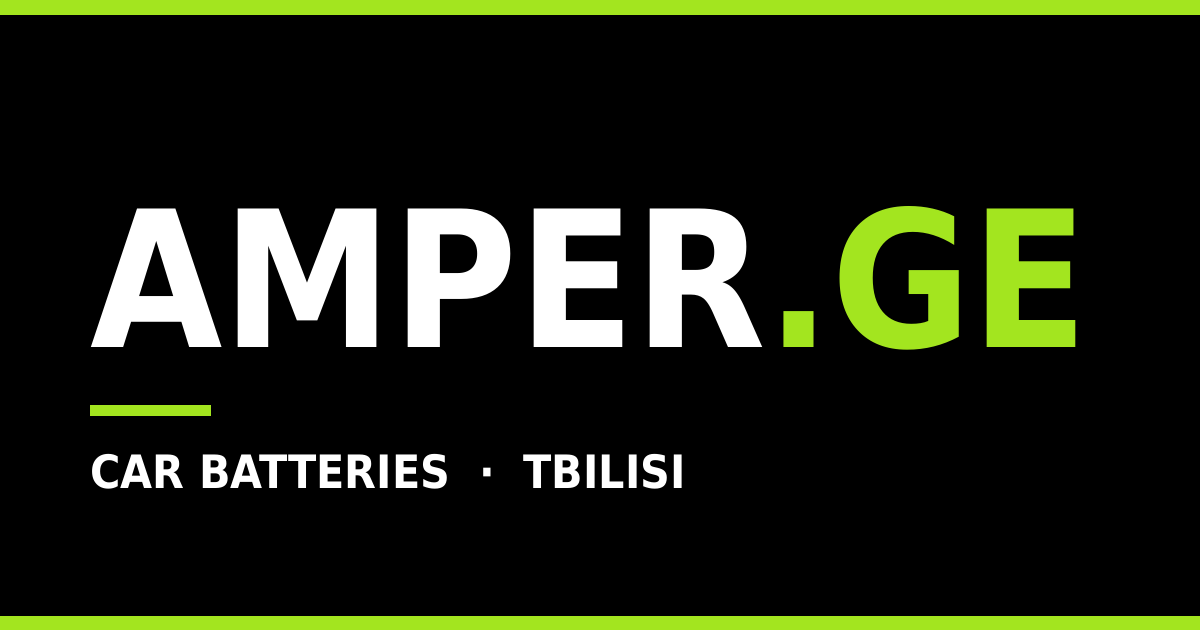
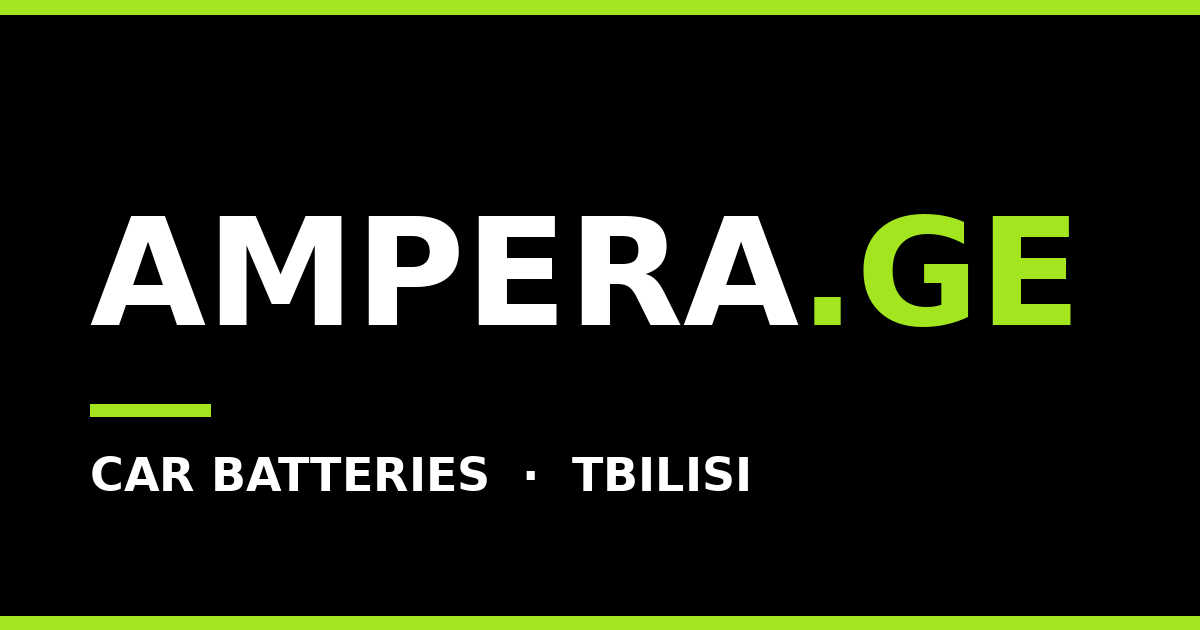
Update the site: AMPERA.GE brand everywhere (#15)

Changed region(s): [[0.0617, 0.3016, 0.8942, 0.573], [0.0617, 0.6937, 0.6475, 0.7841], [0.0925, 0.6333, 0.1542, 0.6635]]

diff --git a/src/components/site/content.ts b/src/components/site/content.ts
@@ -211,11 +211,11 @@ export interface SiteContent {
 }
 
 export const en: SiteContent = {
-  brand: { name: 'AMPER', tld: '.GE' },
+  brand: { name: 'AMPERA', tld: '.GE' },
   skip: 'Skip to battery finder',
   menu: 'Menu',
   meta: {
-    title: 'AMPER.GE — Car batteries in Tbilisi',
+    title: 'AMPERA.GE — Car batteries in Tbilisi',
     description: 'Find the right car battery by vehicle or old-battery code. Fitment confirmed, same-day delivery and installation in Tbilisi.',
     ogDescription: 'Find the right car battery by vehicle or old-battery code. Same-day delivery and installation.',
   },
@@ -403,7 +403,7 @@ export const en: SiteContent = {
     },
   },
   why: {
-    eyebrow: 'Why AMPER',
+    eyebrow: 'Why AMPERA',
     heading: 'A counter you can actually reach',
     items: [
       { title: 'Real stock, real numbers', text: 'The catalog mirrors the shelf. If WhatsApp says 6 units, there are 6 units.' },
@@ -502,18 +502,18 @@ export const en: SiteContent = {
   },
   mbar: { navLabel: 'Quick contact', whatsapp: 'WhatsApp', call: 'Call' },
   consent: { text: 'We use cookies for anonymous visit statistics (Google Analytics) to improve the site. You can decline.', accept: 'Accept', decline: 'Decline' },
-  demoNotice: '© AMPER.GE · Fitment is always confirmed by our team before installation.',
+  demoNotice: '© AMPERA.GE · Fitment is always confirmed by our team before installation.',
 };
 
 export const ka: SiteContent = {
   "brand": {
-    "name": "AMPER",
+    "name": "AMPERA",
     "tld": ".GE"
   },
   "skip": "გადასვლა აკუმულატორის ძიებაზე",
   "menu": "მენიუ",
   "meta": {
-    "title": "AMPER.GE — ავტო აკუმულატორები თბილისში",
+    "title": "AMPERA.GE — ავტო აკუმულატორები თბილისში",
     "description": "შეარჩიეთ შესაფერისი ავტო აკუმულატორი ავტომობილის მოდელით ან ძველი აკუმულატორის კოდით. თავსებადობის გადამოწმება, მიტანა და მონტაჟი იმავე დღეს თბილისში.",
     "ogDescription": "შეარჩიეთ შესაფერისი ავტო აკუმულატორი ავტომობილის მოდელით ან ძველი აკუმულატორის კოდით. მიტანა და მონტაჟი იმავე დღეს."
   },
@@ -769,7 +769,7 @@ export const ka: SiteContent = {
     }
   },
   "why": {
-    "eyebrow": "რატომ AMPER",
+    "eyebrow": "რატომ AMPERA",
     "heading": "გუნდი, რომელსაც ნამდვილად დაუკავშირდებით",
     "items": [
       {
@@ -920,7 +920,7 @@ export const ka: SiteContent = {
     "accept": "თანხმობა",
     "decline": "უარი"
   },
-  "demoNotice": "© AMPER.GE · შესაბამისობას ყოველთვის ჩვენი გუნდი ადასტურებს მონტაჟამდე."
+  "demoNotice": "© AMPERA.GE · შესაბამისობას ყოველთვის ჩვენი გუნდი ადასტურებს მონტაჟამდე."
 };
 
 export const content = { en, ka };

diff --git a/src/lib/site/site.test.ts b/src/lib/site/site.test.ts
@@ -19,7 +19,7 @@ describe('contact', () => {
     const m = await import('./contact');
     expect(m.contact.phone).toBe('+995322550011');
     expect(m.contact.whatsapp).toBe('995555123456');
-    expect(m.contact.email).toBe('hello@amper.ge');
+    expect(m.contact.email).toBe('hello@ampera.ge');
     expect(m.contact.address).toBe('12 Kakheti Highway, Tbilisi');
     expect(m.contact.hours).toBe('Mo-Sa 09:00-19:00');
   });
@@ -41,11 +41,11 @@ describe('contact', () => {
 });
 
 describe('json-ld', () => {
-  const contactInfo = { phoneDisplay: '+995 32 255 00 11', address: '12 Kakheti Highway, Tbilisi', hours: 'Mo-Sa 09:00-19:00', email: 'hello@amper.ge' };
+  const contactInfo = { phoneDisplay: '+995 32 255 00 11', address: '12 Kakheti Highway, Tbilisi', hours: 'Mo-Sa 09:00-19:00', email: 'hello@ampera.ge' };
   it('emits LocalBusiness plus one Product per battery', () => {
-    const doc = buildJsonLd('https://amper.ge', contactInfo, [{ id: 's60', name: 'AMPER S60', price: 215, stock: 'in' }]);
+    const doc = buildJsonLd('https://ampera.ge', contactInfo, [{ id: 's60', name: 'AMPER S60', price: 215, stock: 'in' }]);
     const graph = doc['@graph'] as Record<string, unknown>[];
-    expect(graph[0]).toMatchObject({ '@type': 'LocalBusiness', name: 'AMPER.GE' });
+    expect(graph[0]).toMatchObject({ '@type': 'LocalBusiness', name: 'AMPERA.GE' });
     expect(graph[1]).toMatchObject({
       '@type': 'Product',
       name: 'AMPER S60',
@@ -53,7 +53,7 @@ describe('json-ld', () => {
     });
   });
   it('omits offers when price is null', () => {
-    const doc = buildJsonLd('https://amper.ge', contactInfo, [{ id: 's60', name: 'AMPER S60', price: null, stock: 'in' }]);
+    const doc = buildJsonLd('https://ampera.ge', contactInfo, [{ id: 's60', name: 'AMPER S60', price: null, stock: 'in' }]);
     expect((doc['@graph'] as Record<string, unknown>[])[1]).not.toHaveProperty('offers');
   });
   it('maps availability from stock', () => {

diff --git a/src/app/globals.css b/src/app/globals.css
@@ -1,4 +1,4 @@
-/* AMPER.GE — LIGHT theme with the brand palette: green #A3E51F, black #000, white #FFF.
+/* AMPERA.GE — LIGHT theme with the brand palette: green #A3E51F, black #000, white #FFF.
    Green is a FILL colour (buttons, bars, marks) — on white it has only 1.5:1 contrast, so accent TEXT on light
    uses the dark green --amber-ink (#3F6B00, 6.3:1). Header and footer are black, where the brand green is text-safe. */
 
@@ -612,7 +612,7 @@ input[type=file]{ width:100%; min-height:44px; background:var(--bg-2); color:var
 @media (max-width:760px){ .consent{ bottom:calc(76px + env(safe-area-inset-bottom,0px)) } }
 
 /* =====================================================================================================
-   REDESIGN LAYER — AMPER.GE public site.
+   REDESIGN LAYER — AMPERA.GE public site.
    override: sandro/checklist.md §1 (pure #000 / #FFF surfaces, black+green) — client brand mandate:
    green #A3E51F / black #000 / white #FFF. Green is a FILL on light surfaces, text only on black.
    Georgian rules: no letter-spacing, no all-caps, no mono face for Georgian words; headlines never break

diff --git a/src/lib/site/contact.ts b/src/lib/site/contact.ts
@@ -2,7 +2,7 @@ const DEFAULT_PHONE = '+995322550011';
 const DEFAULT_PHONE_DISPLAY = '+995 32 255 00 11';
 const DEFAULT_WHATSAPP = '995555123456';
 const DEFAULT_WHATSAPP_DISPLAY = '+995 555 12 34 56';
-const DEFAULT_EMAIL = 'hello@amper.ge';
+const DEFAULT_EMAIL = 'hello@ampera.ge';
 
 export const contact = {
   phone: process.env.NEXT_PUBLIC_SHOP_PHONE || DEFAULT_PHONE,
@@ -12,10 +12,10 @@ export const contact = {
   email: process.env.NEXT_PUBLIC_SHOP_EMAIL || DEFAULT_EMAIL,
   address: '12 Kakheti Highway, Tbilisi',
   hours: 'Mo-Sa 09:00-19:00',
-  telegram: 'https://t.me/amperge',
-  telegramHandle: '@amperge',
-  facebook: 'https://fb.com/amperge',
-  instagram: 'https://instagram.com/amper.ge',
+  telegram: 'https://t.me/ampera_ge',
+  telegramHandle: '@ampera_ge',
+  facebook: 'https://fb.com/ampera.ge',
+  instagram: 'https://instagram.com/ampera.ge',
 };
 
 export function waLink(text: string): string {

diff --git a/src/lib/analytics.test.ts b/src/lib/analytics.test.ts
@@ -12,11 +12,11 @@ describe('parseGaId', () => {
 describe('eventForHref', () => {
   it('maps the shop contact channels to events', () => {
     expect(eventForHref('tel:+995322550011')).toBe('click_phone');
-    expect(eventForHref('mailto:hello@amper.ge')).toBe('click_email');
+    expect(eventForHref('mailto:hello@ampera.ge')).toBe('click_email');
     expect(eventForHref('https://wa.me/995555123456?text=Hi')).toBe('click_whatsapp');
     expect(eventForHref('https://t.me/amperge')).toBe('click_telegram');
     expect(eventForHref('https://fb.com/amperge')).toBe('click_facebook');
-    expect(eventForHref('https://instagram.com/amper.ge')).toBe('click_instagram');
+    expect(eventForHref('https://instagram.com/ampera.ge')).toBe('click_instagram');
   });
   it('ignores every other link', () => {
     expect(eventForHref('#faq')).toBeNull();

diff --git a/src/app/[lang]/page.tsx b/src/app/[lang]/page.tsx
@@ -44,10 +44,10 @@ export async function generateMetadata({ params }: { params: Promise<{ lang: str
       title: meta.title,
       description: meta.ogDescription,
       url: canonical,
-      siteName: 'AMPER.GE',
+      siteName: 'AMPERA.GE',
       type: 'website',
       locale: lang === 'ka' ? 'ka_GE' : 'en_US',
-      images: [{ url: '/og.png', width: 1200, height: 630, alt: 'AMPER.GE' }],
+      images: [{ url: '/og.png', width: 1200, height: 630, alt: 'AMPERA.GE' }],
     },
     twitter: { card: 'summary_large_image', title: meta.title, description: meta.ogDescription, images: ['/og.png'] },
     alternates: { canonical, languages: { ka: '/', en: '/en', 'x-default': '/' } },

diff --git a/src/server/shop-profile.ts b/src/server/shop-profile.ts
@@ -25,7 +25,7 @@ export const shopProfileSchema = z.object({
 export type ShopProfile = z.infer<typeof shopProfileSchema>;
 
 export const DEMO_PROFILE: ShopProfile = {
-  brand: 'AMPER.GE',
+  brand: 'AMPERA.GE',
   legalName: 'DEMO — არ არის რეალური რეკვიზიტი',
   taxId: '000000000',
   address: 'თბილისი (დემო მისამართი)',

diff --git a/src/lib/i18n/i18n.test.ts b/src/lib/i18n/i18n.test.ts
@@ -58,7 +58,7 @@ describe('sitemap alternates', () => {
 describe('JSON-LD language', () => {
   it('emits inLanguage and a localised description', () => {
     const doc = buildJsonLd(
-      'https://amper.ge',
+      'https://ampera.ge',
       { phoneDisplay: 'p', address: 'a', hours: 'h', email: 'e' },
       [],
       { inLanguage: 'ka', description: 'ქართული აღწერა' },

diff --git a/src/lib/receipt.test.ts b/src/lib/receipt.test.ts
@@ -11,7 +11,7 @@ import type { Sale } from './admin-api';
 import type { ShopProfile } from '@/server/shop-profile';
 
 const profile = (o: Partial<ShopProfile> = {}): ShopProfile => ({
-  brand: 'AMPER.GE',
+  brand: 'AMPERA.GE',
   legalName: 'შპს ამპერი',
   taxId: '123456789',
   address: 'თბილისი',

diff --git a/src/components/admin/labels.ts b/src/components/admin/labels.ts
@@ -1,5 +1,5 @@
 export const labels = {
-  shopName: 'AMPER.GE',
+  shopName: 'AMPERA.GE',
   adminTitle: 'მაღაზიის მართვა',
   loginTitle: 'შესვლა',
   loginText: 'გაგრძელებისთვის შეხვიდეთ Google ანგარიშით.',

diff --git a/src/lib/site/json-ld.ts b/src/lib/site/json-ld.ts
@@ -37,7 +37,7 @@ export function buildJsonLd(
     '@graph': [
       {
         '@type': 'LocalBusiness',
-        name: 'AMPER.GE',
+        name: 'AMPERA.GE',
         url: siteUrl,
         image: `${siteUrl}/og.png`,
         inLanguage,
